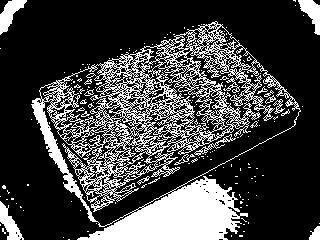
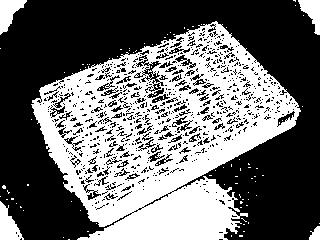
Auto stash before merge of "test" and "origin/test"

diff --git a/image2graph.py b/image2graph.py
@@ -7,31 +7,24 @@ from Dinic import Graph
 def laplace(x):
     return erf(x/2**0.5)/2
 
+
 # constants
 # TODO need to analyze for best params
-K = 2
 bins = 10
 step = math.ceil(256 / bins)
-lambda_const = 5
-sigma_const = 1
-epsilon = 1e-7
+lambda_const = 50
+sigma_const = 50
+epsilon = 1e-4
+K = 20000000
 
 
 def generate_probs(img, interest):
     # определяем вероятности попадения в блоки гистограммы
     hist = [0] * bins
-    mu = 0
     for (x, y) in interest:
-        mu += img[x][y]
-    mu /= len(interest)
-    sigma = 0
-    for (x, y) in interest:
-        sigma += (img[x][y] - mu)**2
-    sigma = math.sqrt(sigma / (len(interest)-1))
+        hist[int(img[x][y] / step)] += 1
     for i in range(bins):
-        b = (step*(i+1) - mu) / sigma
-        a = (step*i - mu) / sigma
-        hist[i] = laplace(b) - laplace(a)
+        hist[i] /= len(interest)
     return hist
 
 
@@ -44,22 +37,18 @@ def image2graph(img, obj, bkg):
     obj_set = set(obj)
     bkg_set = set(bkg)
     obj_terminal, bkg_terminal = number_of_nodes, number_of_nodes+1
-    graph = Graph(n=number_of_nodes+2, source=number_of_nodes, target=number_of_nodes+1)
+    graph = Graph(n=number_of_nodes+2, source=obj_terminal, target=bkg_terminal)
     for i in range(number_of_rows):
         for j in range(number_of_cols):
             if (i, j) in obj_set:
                 graph.add_edge(obj_terminal, number_of_cols * i + j, K)
-                graph.add_edge(number_of_cols * i + j, bkg_terminal, 0)
+                graph.add_edge(number_of_cols * i + j, bkg_terminal, 1e-15)
             elif (i, j) in bkg_set:
                 graph.add_edge(obj_terminal, number_of_cols * i + j, 0)
                 graph.add_edge(number_of_cols*i + j, bkg_terminal, K)
             else:
-                condition_obj_prob = obj_probs[img[i][j] // step] \
-                                     / (obj_probs[img[i][j] // step] + bkg_probs[img[i][j] // step])
-                condition_bkg_prob = bkg_probs[img[i][j] // step] \
-                                     / (obj_probs[img[i][j] // step] + bkg_probs[img[i][j] // step])
-                R_obj = -np.log(min(condition_obj_prob + epsilon, 1))
-                R_bkg = -np.log(min(condition_bkg_prob + epsilon, 1))
+                R_obj = -np.log(min(obj_probs[img[i][j] // step] + epsilon, 1))
+                R_bkg = -np.log(min(bkg_probs[img[i][j] // step] + epsilon, 1))
                 graph.add_edge(obj_terminal, number_of_cols*i + j, lambda_const*R_bkg)
                 graph.add_edge(number_of_cols*i + j, bkg_terminal, lambda_const*R_obj)
             intensity = img[i][j]
